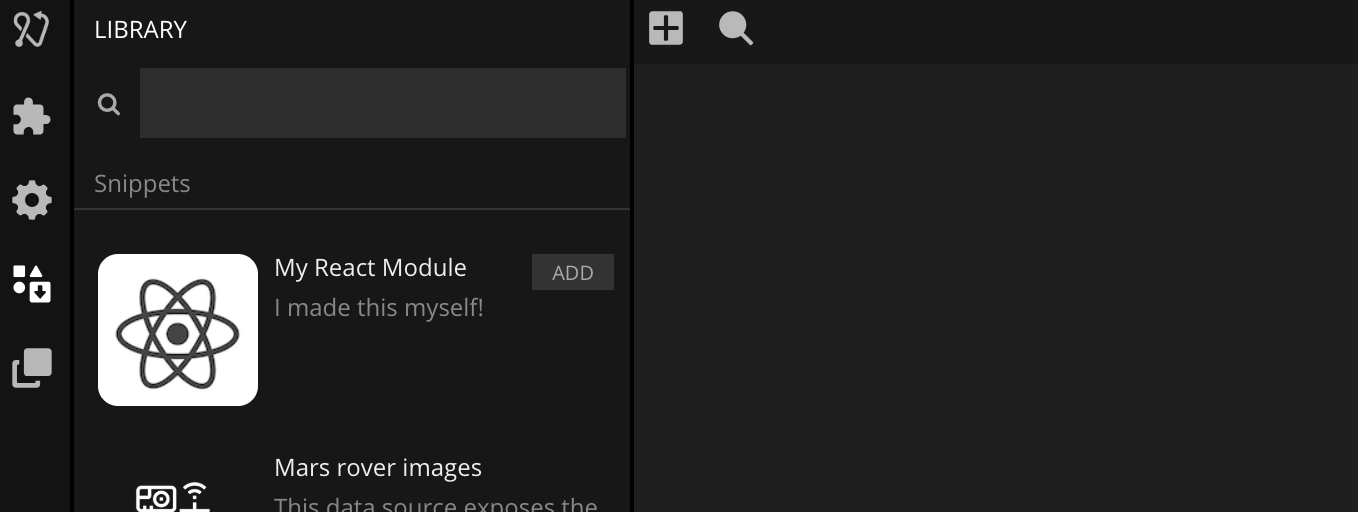
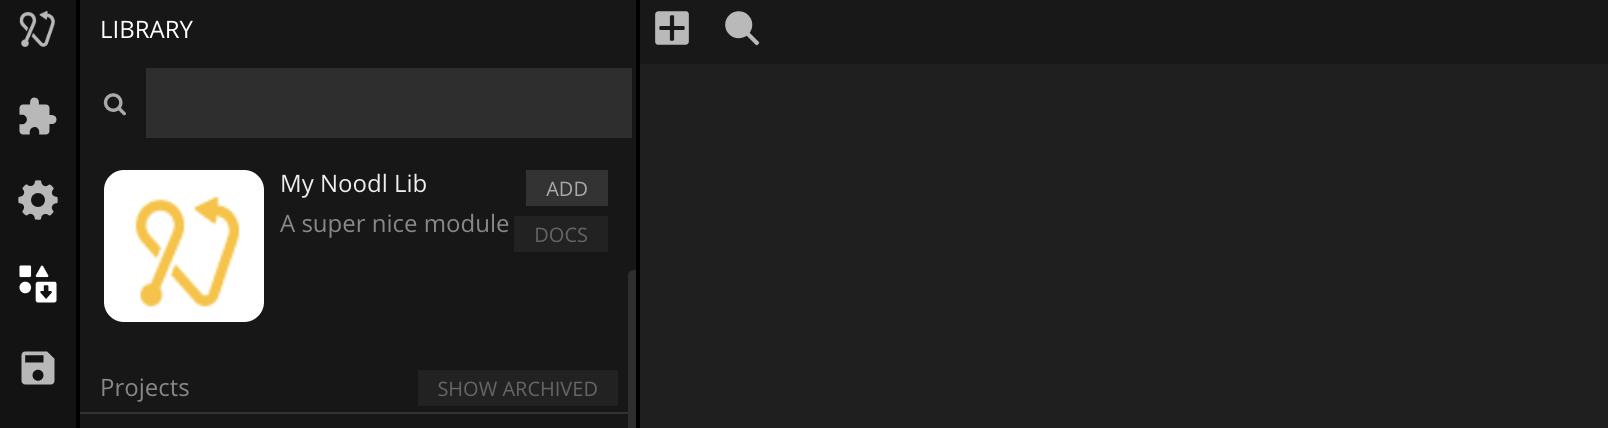
docs for modules

diff --git a/extending/create-lib.md b/extending/create-lib.md
@@ -187,3 +187,16 @@ In this simple template we provide our new node as part of the module.
 Now if you make a change to your code you either need to run the *npm build* command in the *module* folder as shown about, or if you are running the *npm run dev* it will automatically detect the change and rebuild your module. 
 
 You need to reload the viewer in Noodl for the changes to appear. Use *Cmd/Ctrl-R* or the refresh button at the top of the viewer.
+
+## Documentation
+
+It is important to document your module so that your fellow Noodlers will know how to use it. Once you have your documentation hosted somewhere where it is accessible to the users of your module you can add a docs link as shown below.
+
+```bash
+noodl-cli desc --docs "https://url.to.my/docs"
+```
+
+Now after you push your module the documentation will be accessible via the *Docs* button from the library panel in Noodl.
+
+![](library-pane.png ':class=img-size-l')
+
